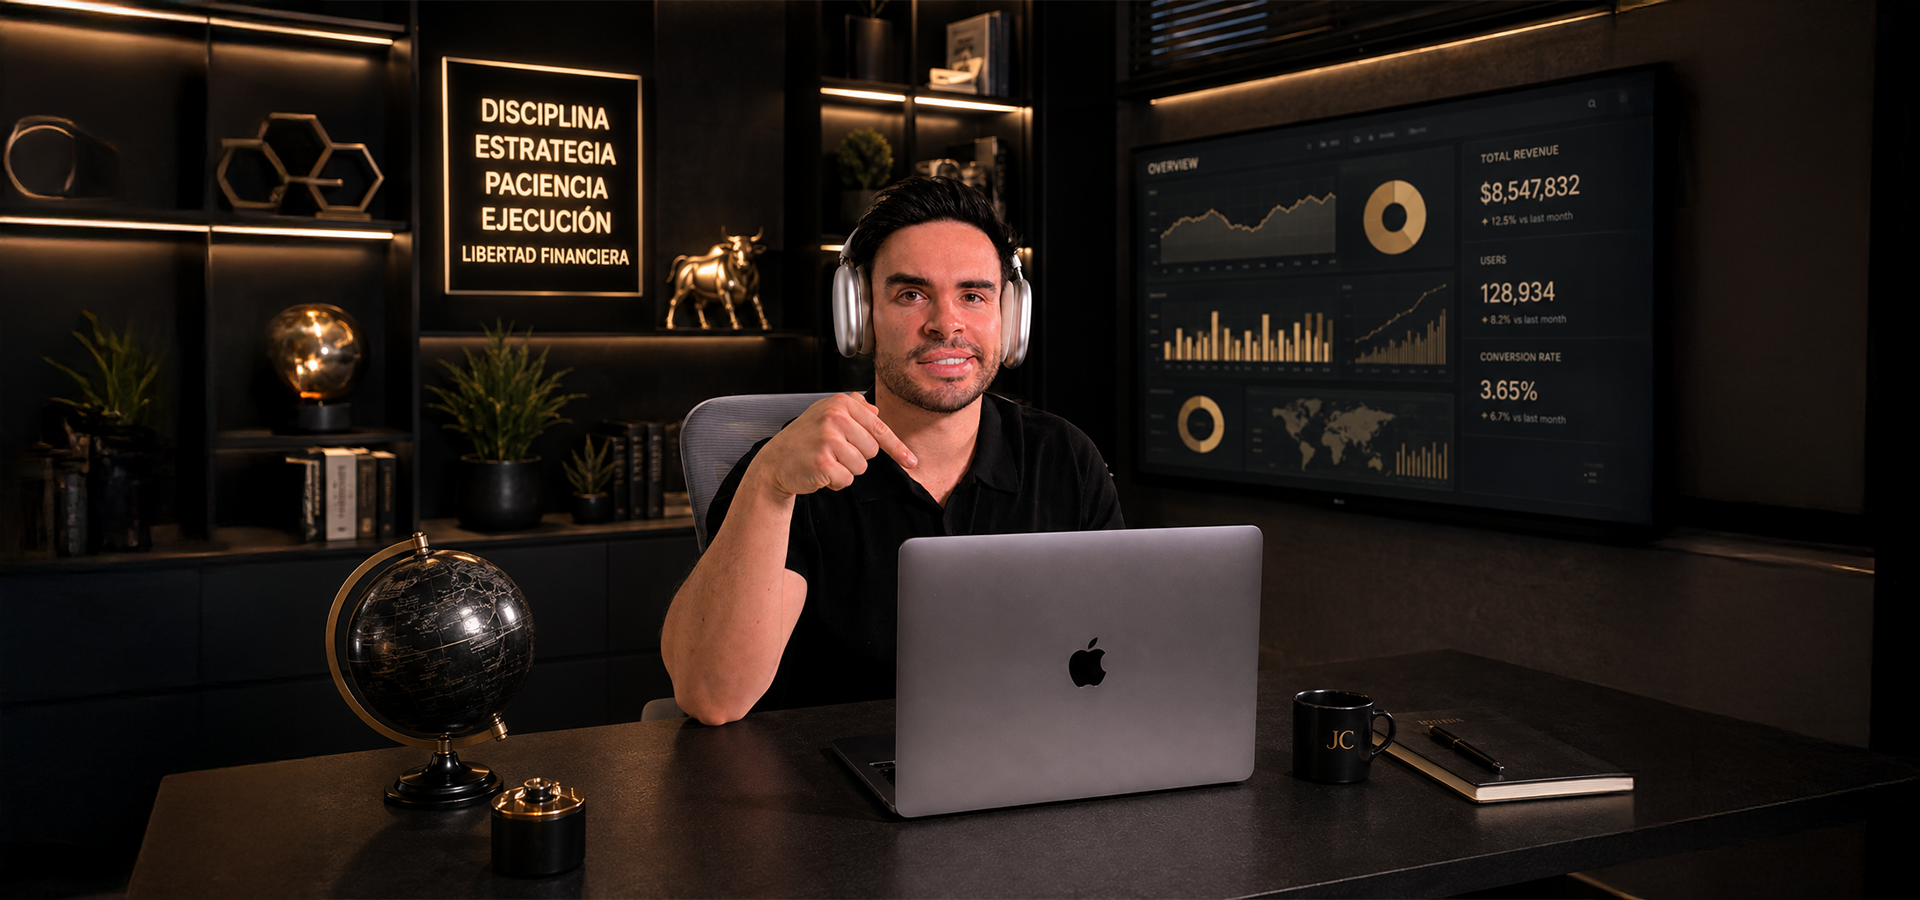
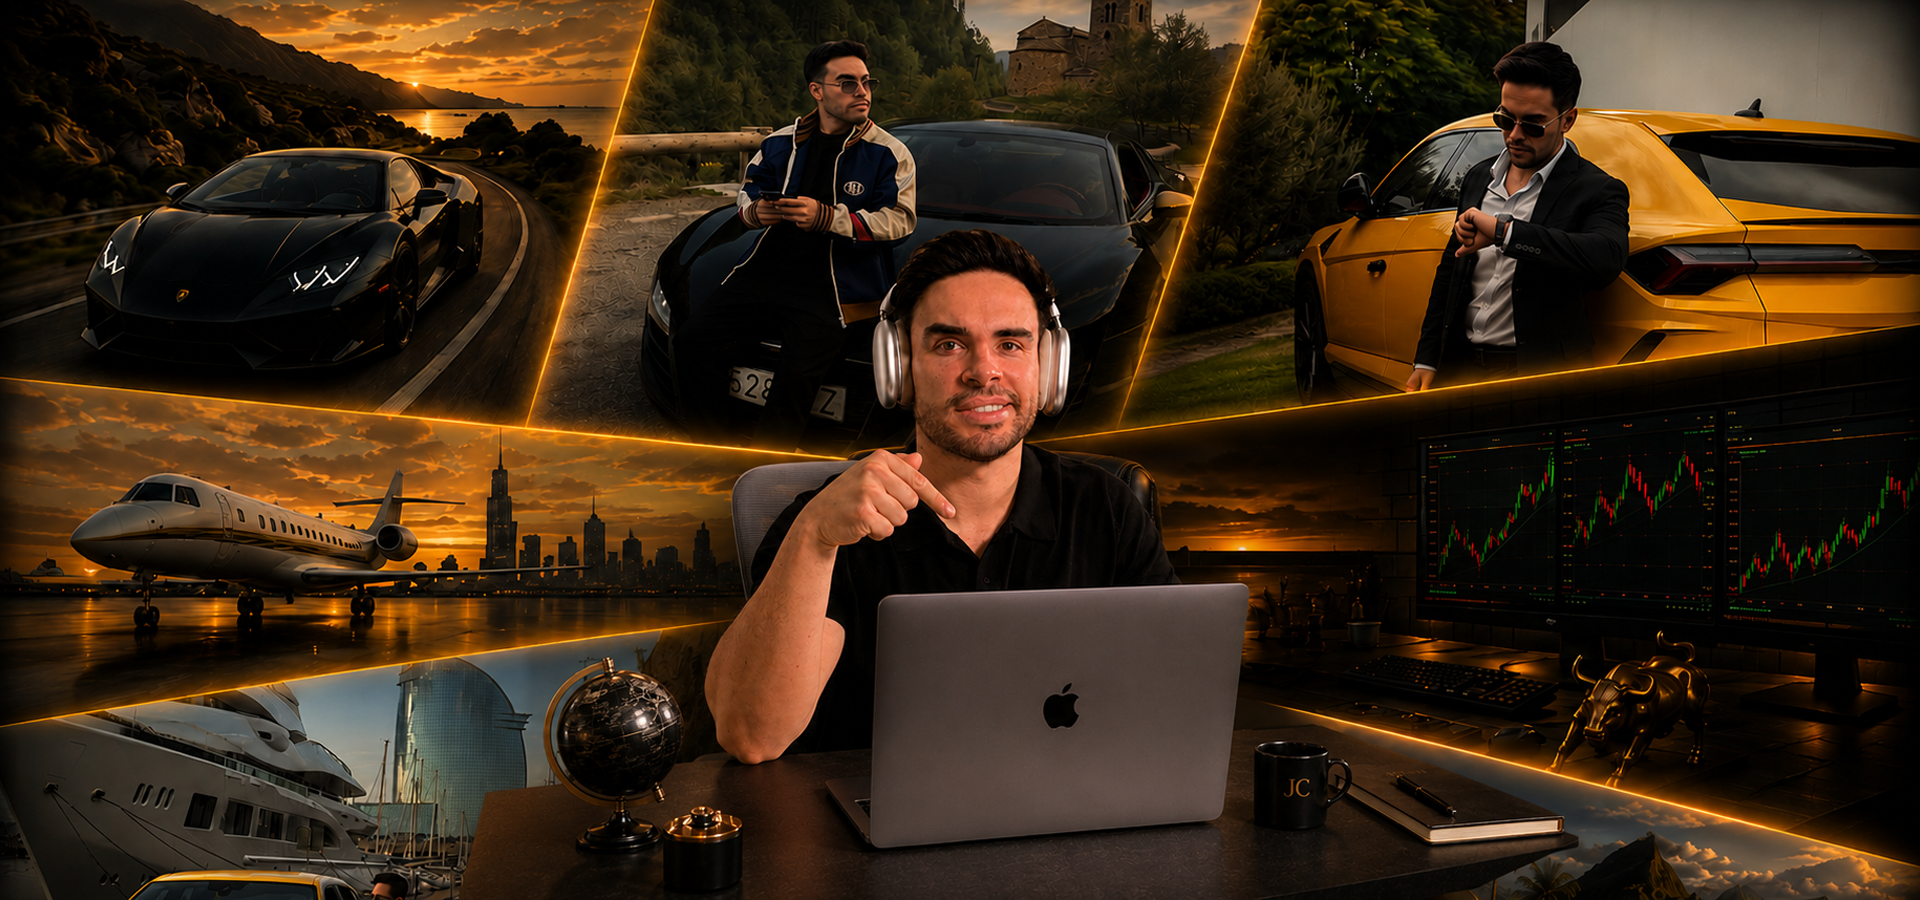
fixes

diff --git a/src/components/Header.jsx b/src/components/Header.jsx
@@ -10,6 +10,8 @@ const NAV_LINKS = [
   { label: 'Contacto', href: '#contacto', id: 'contacto' },
 ]
 
+import telegram from '../assets/imgs/person/logo.png'
+
 export default function Header() {
   const [isMenuOpen, setIsMenuOpen] = useState(false)
   const [activeId, setActiveId] = useState('inicio')
@@ -22,9 +24,11 @@ export default function Header() {
           onClick={() => setActiveId('inicio')}
           className="flex items-center gap-2"
         >
-          <span className="w-9 h-9 rounded-sm border border-gold flex items-center justify-center font-display text-gold text-xl leading-none">
-            D
-          </span>
+          <img
+            src={telegram}
+            alt="Logo Dominguero"
+            className="w-10 h-10 object-cover"
+          />
           <span className="font-display text-2xl tracking-wide">DOMINGUERO</span>
         </a>
 

diff --git a/index.html b/index.html
@@ -2,7 +2,7 @@
 <html lang="es">
   <head>
     <meta charset="UTF-8" />
-    <link rel="icon" type="image/svg+xml" href="/favicon.svg" />
+    <link rel="icon" type="image/svg+xml" href="../src/assets/imgs/person/logo.png" />
     <meta name="viewport" content="width=device-width, initial-scale=1.0" />
     <title>Dominguero OFICIAL</title>
     <meta name="description" content="Dominguero crea contenido que inspira, motiva y enseña a millones de personas a superarse y tomar el control de su vida." />
